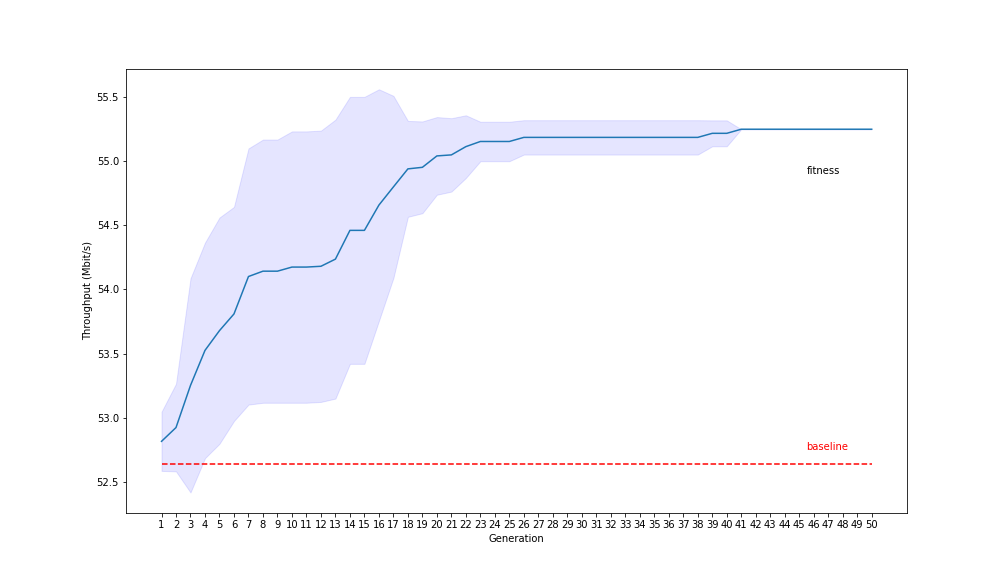
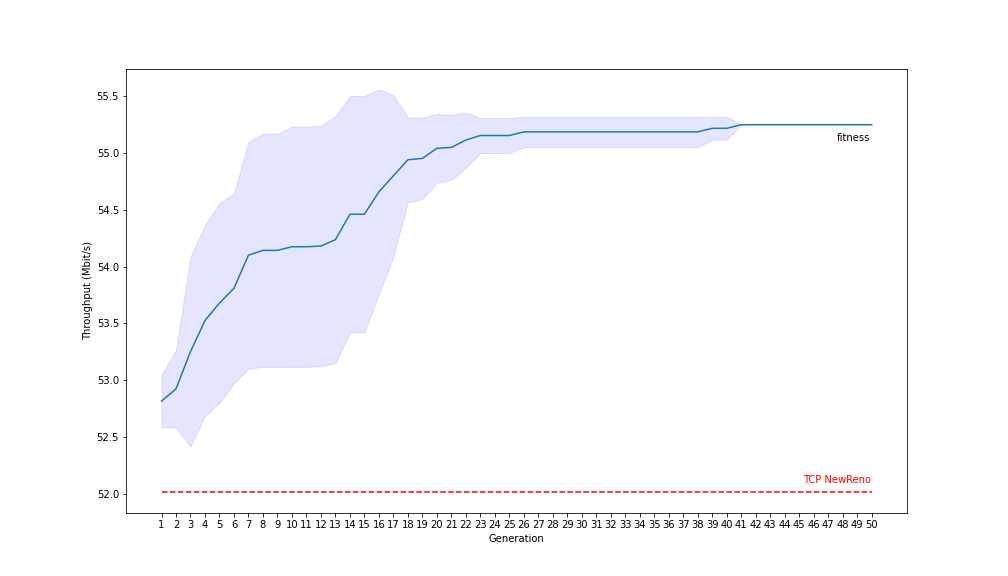
fixing plots

diff --git a/results/report/EQUAL_RUNS/plot.py b/results/report/EQUAL_RUNS/plot.py
@@ -3,7 +3,7 @@ import os
 import matplotlib.pyplot as plt
 import statistics
 
-baselineY = [52.639411764706 for i in range(50)]
+baselineY = [52.337 for i in range(50)]
 baselineX = [i+1 for i in range(50)]
 
 
@@ -52,9 +52,11 @@ plt.fill_between(baselineX, y1, y2,
                  alpha=0.1)          # Transparency of the fill
 plt.xticks(baselineX)
 
-plt.text(45.5, 54.9, 'fitness')
+# plt.text(47.6, 55.1, 'fitness')
+plt.text(47.6, 54.82, 'fitness')
 
-plt.text(45.5, 52.75, 'baseline', color='red')
+# plt.text(45.3, 52.10, 'TCP NewReno', color='red')
+plt.text(47.5, 52.40, 'TCP Bic', color='red')
 # Show the plot
 # plt.show()
 figure = plt.gcf()
